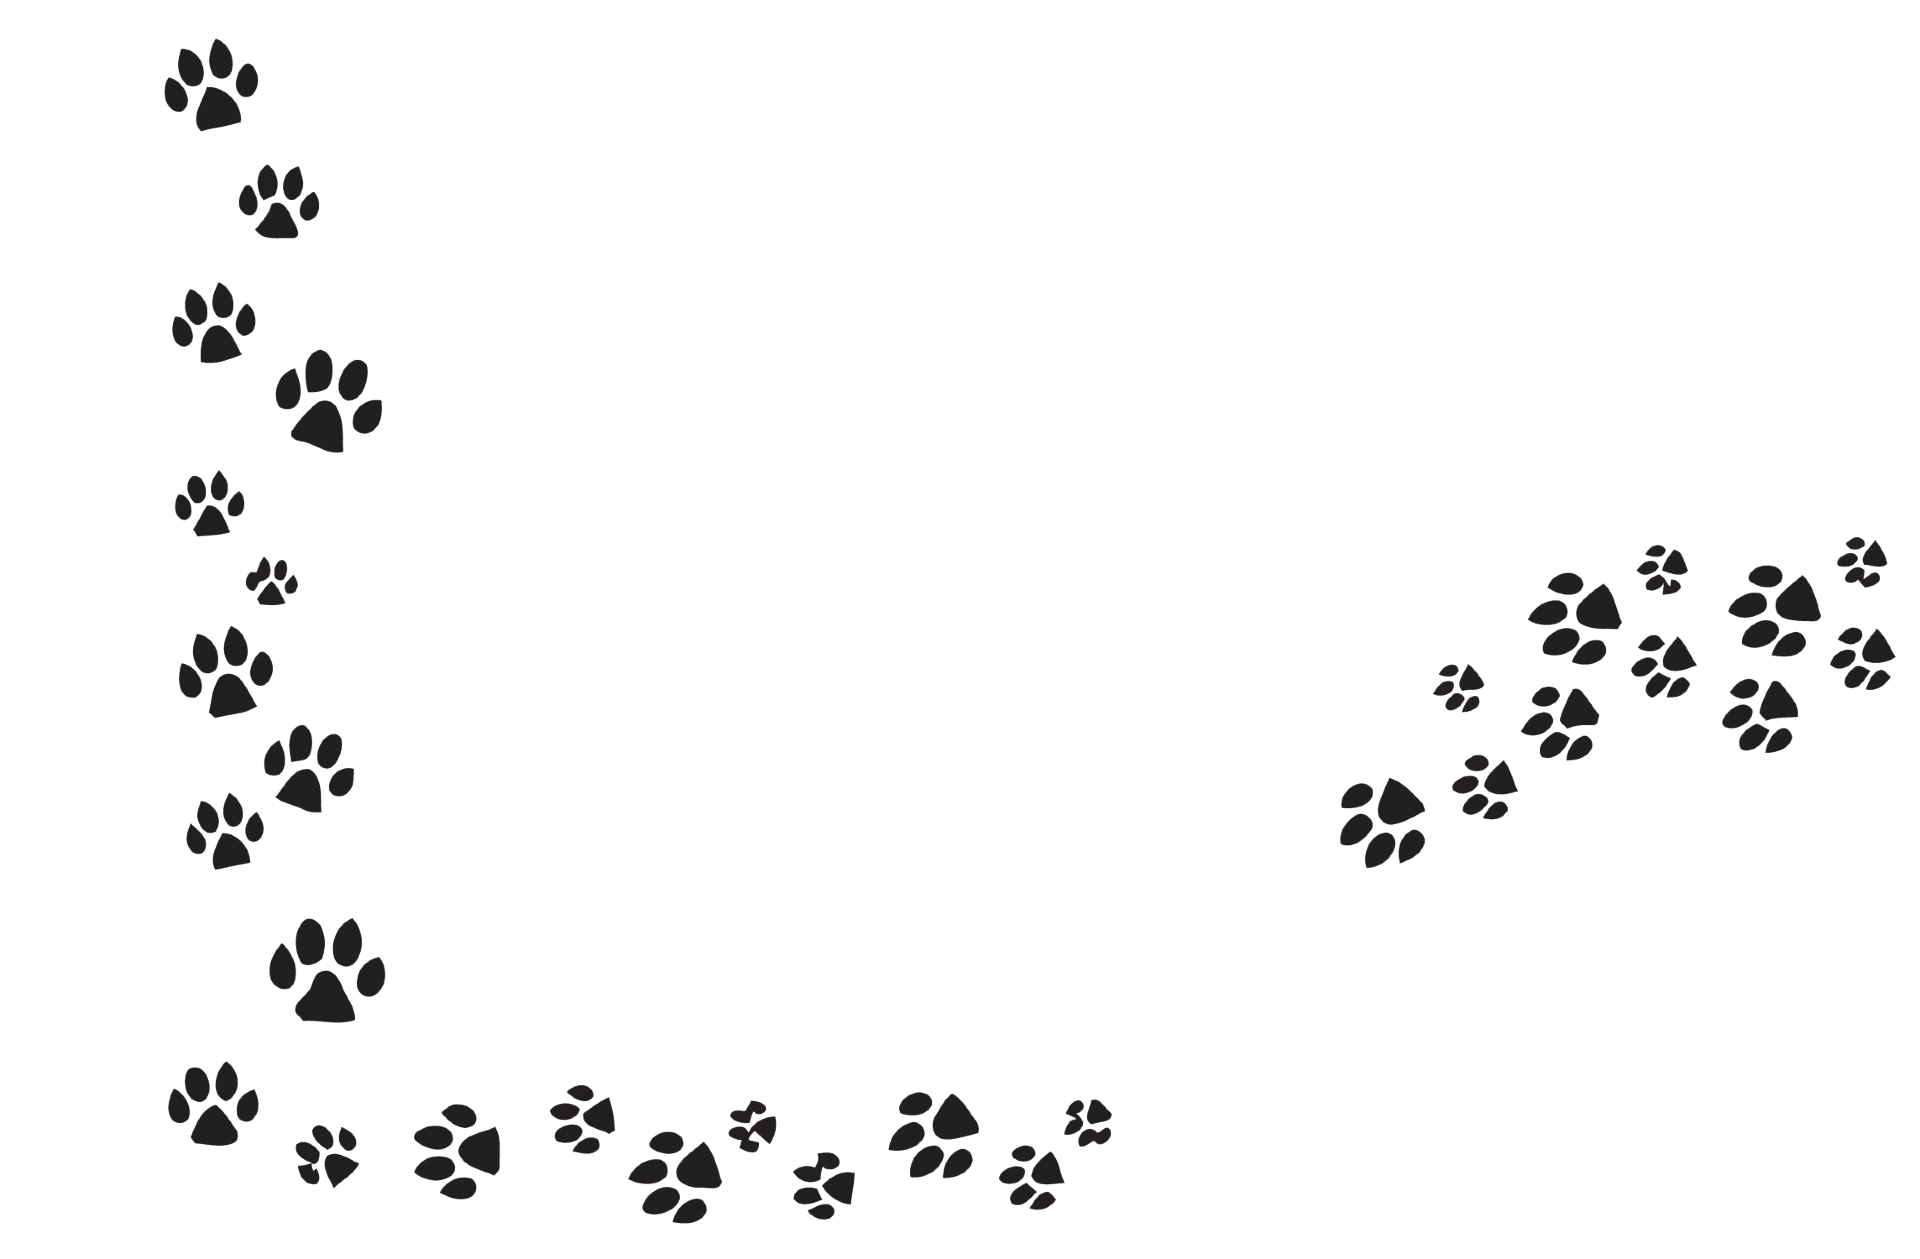
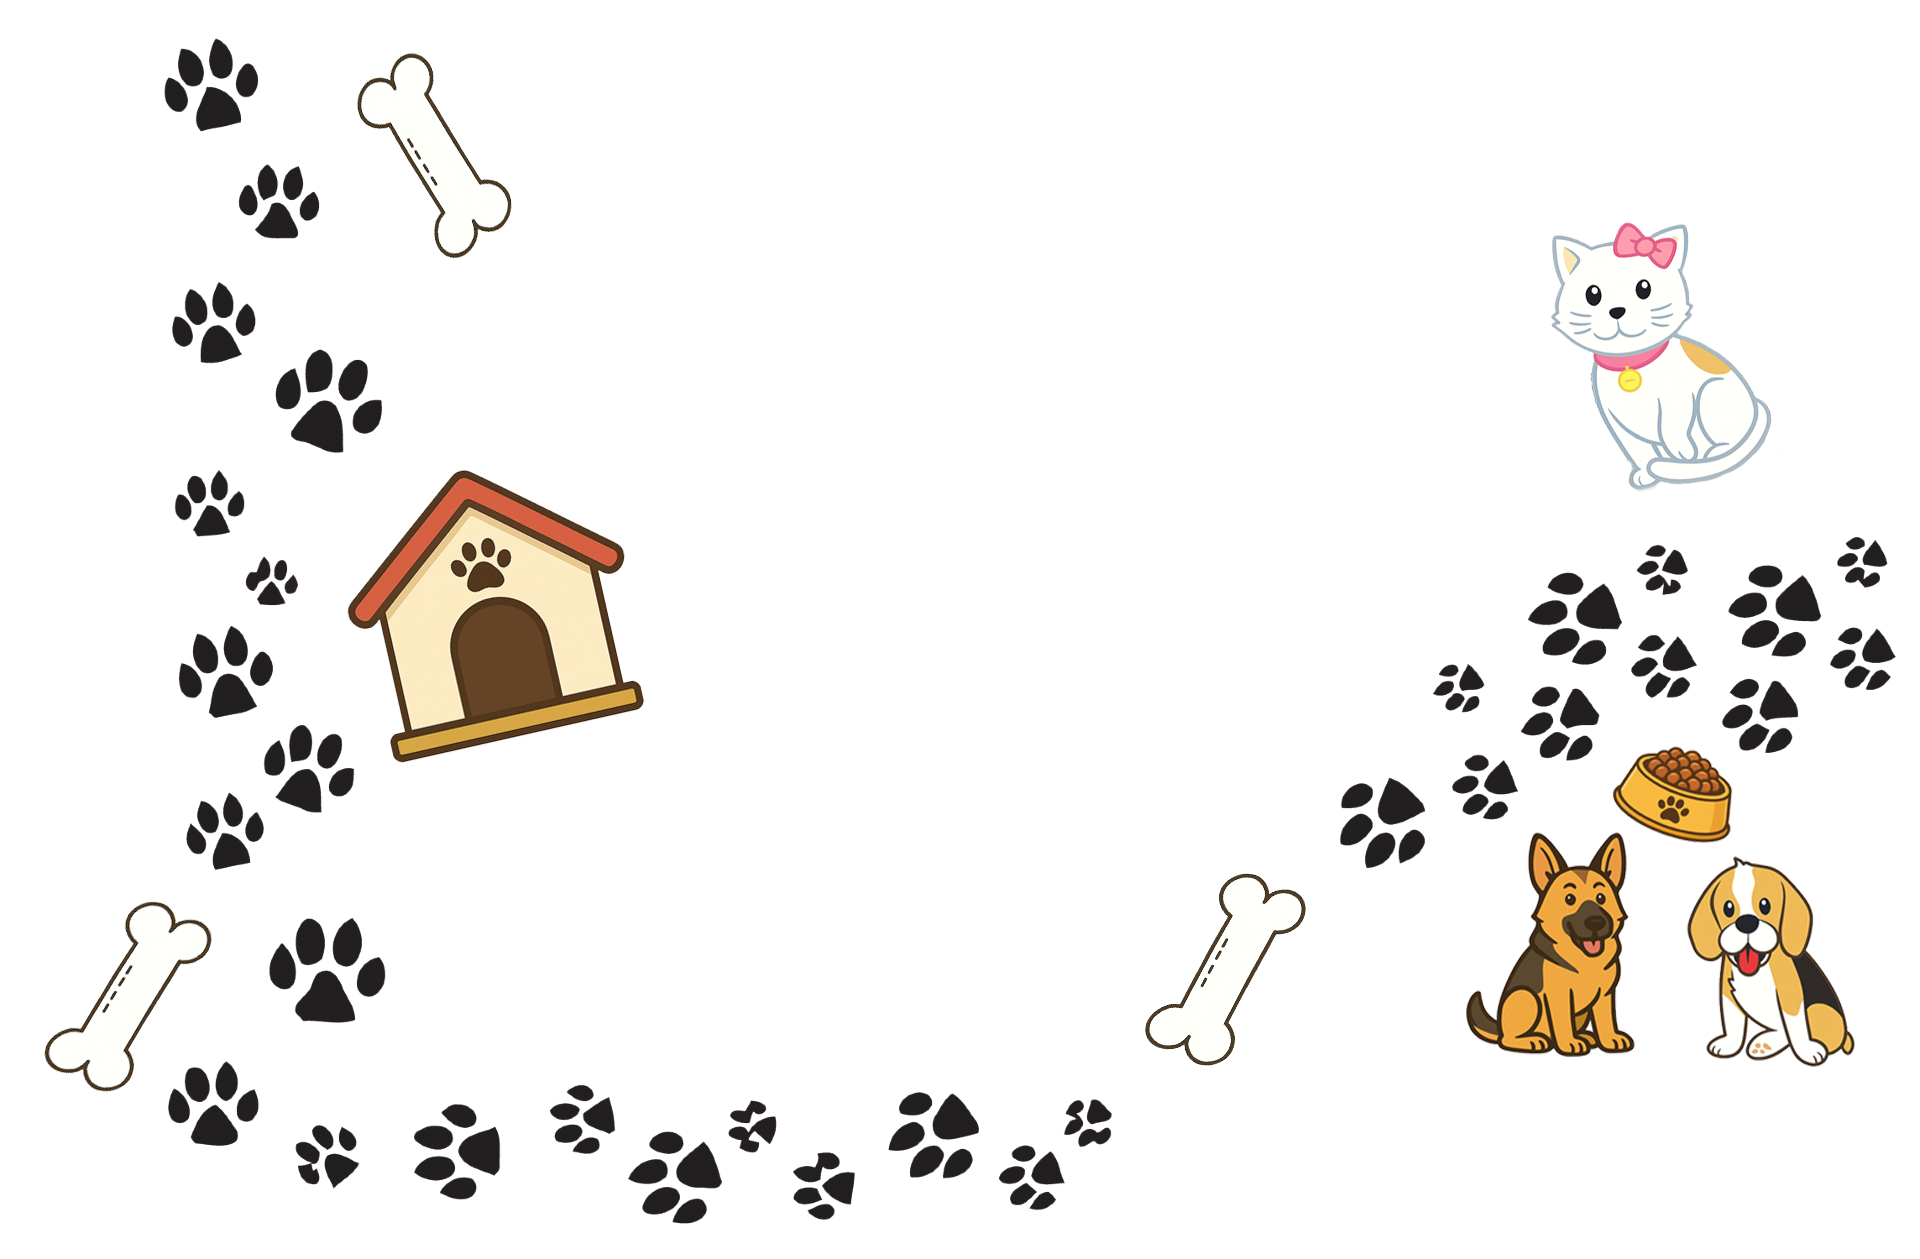
Adicionado campo de vacinas no cadastro do pet

diff --git a/frontend/src/views/Register.vue b/frontend/src/views/Register.vue
@@ -36,6 +36,8 @@
           <InputField v-model="petSpecies" placeholder="Nome da Espécie" label="Espécie:" />
           <InputField v-model="petBreed" placeholder="Nome da Raça" label="Raça:"/>
           <InputField v-model="petAge" placeholder="Coloque a Idade" label="Idade:" type="number" />
+          <InputField v-model="petVaccines" placeholder="Ex: Raiva, V8, Gripe Canina" label="Vacinas que pet já tomou:"/>
+
 
           <!-- Termos -->
           <label class="terms-label">
@@ -71,6 +73,8 @@ const petName = ref('')
 const petSpecies = ref('')
 const petBreed = ref('')
 const petAge = ref('')
+const petVaccines = ref('')
+
 
 const acceptTerms = ref(false)
 
@@ -96,10 +100,11 @@ const passwordsMatch = computed(() =>
 
 const handleRegister = () => {
   if (!tutorName.value || !tutorEmail.value || !tutorPassword.value ||
-      !petName.value || !petSpecies.value || !petBreed.value || !petAge.value) {
+    !petName.value || !petSpecies.value || !petBreed.value || !petAge.value || !petVaccines.value) {
     alert('Preencha todos os campos!')
     return
-  }
+}
+
 
   if (!passwordValid.value) {
     alert('A senha não atende aos requisitos de segurança!')
@@ -122,7 +127,8 @@ const handleRegister = () => {
 }
 
 
-  alert(`Cadastro realizado com sucesso!\nTutor: ${tutorName.value}\nPet: ${petName.value}`)
+alert(`Cadastro realizado com sucesso! Tutor: ${tutorName.value} Pet: ${petName.value} Vacinas: ${petVaccines.value}`)
+
 
   tutorName.value = ''
   tutorEmail.value = ''
@@ -132,6 +138,7 @@ const handleRegister = () => {
   petSpecies.value = ''
   petBreed.value = ''
   petAge.value = ''
+  petVaccines.value = ''
   acceptTerms.value = false
 }
 </script>

diff --git a/frontend/src/components/InputField.vue b/frontend/src/components/InputField.vue
@@ -10,18 +10,15 @@
       />
 
       <button 
-  v-if="type === 'password'"
-  class="toggle-btn"
-  type="button"
-  @click="showPassword = !showPassword"
->
-  <img
-    :src="showPassword ? '/src/assets/eye-open.svg' : '/src/assets/eye-closed.svg'"
-    alt="Mostrar senha"
-    class="eye-icon"
-  />
+        v-if="type === 'password'"
+        class="toggle-btn"
+        type="button"
+        @click="showPassword = !showPassword">
+        <img
+        :src="showPassword ? '/icons/eye-open.svg' : '/icons/eye-closed.svg'"
+        alt="Mostrar senha"
+        class="eye-icon"/>
 </button>
-
     </div>
   </div>
 </template>
@@ -43,6 +40,7 @@ const props = defineProps({
 const emit = defineEmits(["update:modelValue"]);
 const showPassword = ref(false);
 
+
 // Valor interno do input
 const inputValue = ref(props.modelValue);
 
@@ -55,6 +53,7 @@ watch(() => props.modelValue, (val) => {
 watch(inputValue, (val) => {
   emit("update:modelValue", val);
 });
+
 </script>
 
 
